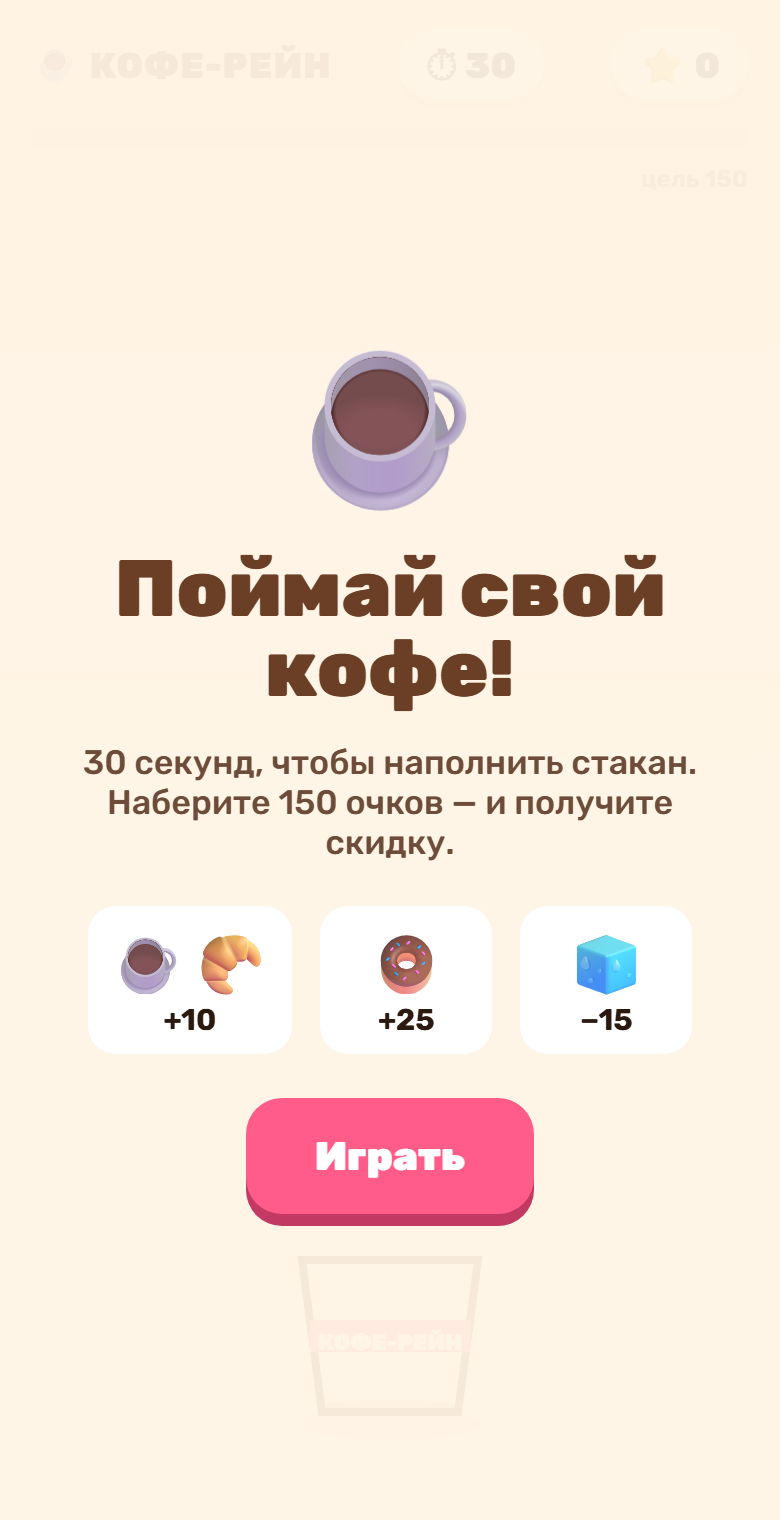
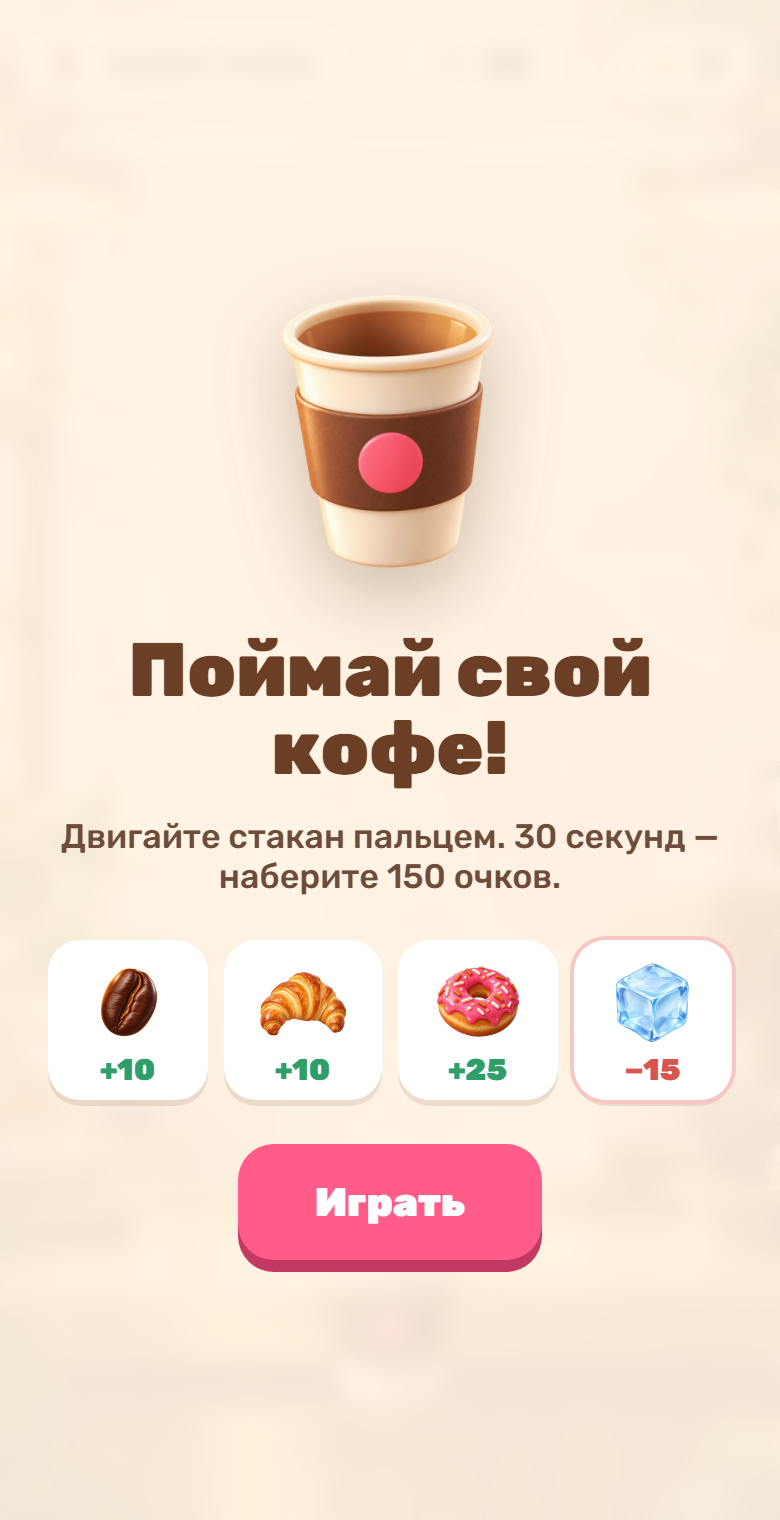
Painted art for the promo game, honest offer screen, catalog pricing

Changed region(s): [[0.0615, 0.1855, 0.9538, 0.8349]]

diff --git a/game.html b/game.html
@@ -4,67 +4,85 @@
 <meta charset="utf-8">
 <meta name="viewport" content="width=device-width,initial-scale=1,maximum-scale=1,user-scalable=no">
 <title>Кофе-рейн — промо-игра для кофейни</title>
-<meta name="description" content="Брендированная мини-игра для промоакции: 30 секунд, промокод, сбор контактов. Работает по ссылке и QR-коду. Демо.">
+<meta name="description" content="Брендированная мини-игра для промоакции: 30 секунд, предложение на экране результата. Демо-концепт.">
 <link rel="preconnect" href="https://fonts.googleapis.com"><link rel="preconnect" href="https://fonts.gstatic.com" crossorigin>
 <link href="https://fonts.googleapis.com/css2?family=Rubik:wght@500;700;900&display=swap" rel="stylesheet">
 <style>
 /* Brand tokens — a client's palette and logo replace these in a real project. */
-:root{--brand:#6b3e26;--brand2:#c8794a;--cream:#fff4e6;--accent:#ff5c8a;--ink:#2b1a10}
+:root{--brand:#6b3e26;--brand2:#c8794a;--cream:#fff4e6;--accent:#ff5c8a;--ink:#2b1a10;--good:#2f9e6b;--bad:#d9534f}
 *{box-sizing:border-box;-webkit-tap-highlight-color:transparent}
 html,body{margin:0;height:100%;background:var(--brand);font-family:Rubik,system-ui,sans-serif;color:var(--ink);overflow:hidden;user-select:none;touch-action:none}
-#wrap{position:relative;max-width:460px;height:100%;margin:0 auto;overflow:hidden;background:linear-gradient(180deg,#ffe2c2,var(--cream) 60%)}
+#wrap{position:relative;max-width:460px;height:100%;margin:0 auto;overflow:hidden;background:#f3dcc0 url(art/bg.jpg) center/cover no-repeat}
+#wrap::before{content:"";position:absolute;inset:0;background:linear-gradient(180deg,rgba(255,244,230,.55),rgba(255,244,230,.15) 40%,rgba(255,244,230,.35));pointer-events:none}
+#wrap.hit-bad{animation:shake .3s}
+@keyframes shake{25%{transform:translateX(-6px)}75%{transform:translateX(6px)}}
 canvas{position:absolute;inset:0;width:100%;height:100%}
-.hud{position:absolute;top:0;left:0;right:0;display:flex;justify-content:space-between;align-items:center;padding:14px 16px;z-index:2;font-weight:900}
-.pill{background:#fff;border-radius:999px;padding:6px 14px;box-shadow:0 4px 0 rgba(107,62,38,.15);font-size:18px}
-.logo{font-weight:900;color:var(--brand);font-size:18px;letter-spacing:.02em}
-.screen{position:absolute;inset:0;z-index:5;display:flex;flex-direction:column;align-items:center;justify-content:center;text-align:center;padding:24px;background:rgba(255,244,230,.94);transition:opacity .35s,transform .35s}
+.flash{position:absolute;inset:0;background:radial-gradient(circle at 50% 85%,rgba(217,83,79,.35),transparent 60%);opacity:0;pointer-events:none;transition:opacity .25s;z-index:1}
+.flash.on{opacity:1;transition:none}
+.hud{position:absolute;top:0;left:0;right:0;display:flex;justify-content:space-between;align-items:center;gap:8px;padding:14px 14px;z-index:2;font-weight:900}
+.pill{display:flex;align-items:center;gap:6px;background:rgba(255,255,255,.92);border-radius:999px;padding:6px 14px;box-shadow:0 4px 0 rgba(107,62,38,.15);font-size:18px}
+.pill svg{width:18px;height:18px}
+.logo{display:flex;align-items:center;gap:6px;font-weight:900;color:var(--brand);font-size:16px;letter-spacing:.02em;background:rgba(255,255,255,.92);border-radius:999px;padding:4px 12px 4px 4px;box-shadow:0 4px 0 rgba(107,62,38,.15)}
+.logo img{width:28px;height:28px;object-fit:contain}
+.screen{position:absolute;inset:0;z-index:5;display:flex;flex-direction:column;align-items:center;justify-content:center;text-align:center;padding:24px;background:rgba(255,244,230,.9);backdrop-filter:blur(6px);-webkit-backdrop-filter:blur(6px);transition:opacity .35s,transform .35s}
 .screen.hide{opacity:0;transform:scale(1.04);pointer-events:none}
-h1{font-size:40px;line-height:1;margin:10px 0;color:var(--brand);font-weight:900}
-p{margin:6px 0 18px;font-size:17px;color:#6d4c3a;font-weight:500}
-.btn{border:0;cursor:pointer;font:900 20px Rubik,sans-serif;color:#fff;background:var(--accent);height:58px;padding:0 34px;border-radius:18px;box-shadow:0 6px 0 #c23a64;transition:transform .1s}
+h1{font-size:38px;line-height:1.02;margin:6px 0 10px;color:var(--brand);font-weight:900}
+p{margin:4px 0 16px;font-size:17px;color:#6d4c3a;font-weight:500}
+.btn{border:0;cursor:pointer;font:900 20px Rubik,sans-serif;color:#fff;background:var(--accent);height:58px;padding:0 38px;border-radius:18px;box-shadow:0 6px 0 #c23a64;transition:transform .1s}
 .btn:active{transform:translateY(4px);box-shadow:0 2px 0 #c23a64}
 .btn.ghost{background:transparent;color:var(--brand);box-shadow:none;font-size:16px;height:44px}
-.cup{font-size:84px;animation:bob 2s ease-in-out infinite}
-@keyframes bob{50%{transform:translateY(-8px) rotate(-4deg)}}
-.rules{display:flex;gap:14px;justify-content:center;margin:4px 0 22px;font-weight:700;font-size:15px}
-.rules div{background:#fff;border-radius:14px;padding:8px 10px;min-width:86px}
-.rules span{display:block;font-size:30px}
-.code{font:900 34px Rubik,monospace;letter-spacing:.12em;background:#fff;border:3px dashed var(--accent);border-radius:16px;padding:10px 18px;margin:8px 0 6px;color:var(--brand)}
-.small{font-size:13px;color:#8a6a58;margin:0 0 14px}
-form{display:flex;flex-direction:column;gap:10px;width:100%;max-width:320px;margin-bottom:12px}
-input{height:50px;border-radius:14px;border:2px solid #f0d6bd;padding:0 14px;font:500 16px Rubik,sans-serif;outline:none;background:#fff}
-input:focus{border-color:var(--brand2)}
-.ok{color:#2f9e6b;font-weight:700;min-height:22px}
-.combo{position:absolute;left:50%;top:30%;transform:translate(-50%,-50%);font-weight:900;font-size:30px;color:var(--accent);z-index:3;pointer-events:none;opacity:0;transition:opacity .2s}
+.hero-cup{width:150px;height:180px;object-fit:contain;filter:drop-shadow(0 14px 18px rgba(107,62,38,.3));animation:bob 2.2s ease-in-out infinite}
+@keyframes bob{50%{transform:translateY(-8px) rotate(-3deg)}}
+.rules{display:grid;grid-template-columns:repeat(4,1fr);gap:8px;margin:6px 0 22px;width:100%;max-width:360px}
+.rules div{background:#fff;border-radius:16px;padding:8px 4px 6px;font-weight:900;font-size:15px;box-shadow:0 3px 0 rgba(107,62,38,.12)}
+.rules img{width:46px;height:46px;object-fit:contain;display:block;margin:0 auto 2px}
+.rules .neg{color:var(--bad);box-shadow:0 0 0 2px #f6c7c5,0 3px 0 rgba(107,62,38,.12)}
+.rules .pos{color:var(--good)}
+.offer{background:#fff;border-radius:20px;padding:16px 20px;box-shadow:0 6px 0 rgba(107,62,38,.12);margin:4px 0 12px;width:100%;max-width:320px}
+.code{font:900 32px Rubik,monospace;letter-spacing:.12em;border:3px dashed var(--accent);border-radius:14px;padding:6px 14px;margin:6px 0;color:var(--brand)}
+.small{font-size:13px;color:#8a6a58;margin:4px 0 0}
+.demo{font-size:12.5px;color:#8a6a58;background:rgba(255,255,255,.7);border-radius:12px;padding:8px 12px;max-width:320px;margin:0 0 12px}
+.stats{display:flex;gap:10px;justify-content:center;margin:0 0 14px}
+.stats span{background:#fff;border-radius:12px;padding:6px 12px;font-weight:700;font-size:14px;color:var(--brand)}
+.combo{position:absolute;left:50%;top:32%;transform:translate(-50%,-50%) scale(.6);font-weight:900;font-size:30px;color:var(--accent);z-index:3;pointer-events:none;opacity:0;transition:opacity .2s,transform .3s cubic-bezier(.2,.9,.25,1.4);text-shadow:0 3px 0 #fff}
+.combo.on{opacity:1;transform:translate(-50%,-50%) scale(1)}
 </style>
 </head>
 <body>
 <div id="wrap">
   <canvas id="c"></canvas>
-  <div class="hud"><span class="logo">☕ КОФЕ-РЕЙН</span><span class="pill">⏱ <b id="time">30</b></span><span class="pill">⭐ <b id="score">0</b></span></div>
+  <div class="flash" id="flash"></div>
+  <div class="hud">
+    <span class="logo"><img src="art/cup.png" alt="">КОФЕ-РЕЙН</span>
+    <span class="pill"><svg viewBox="0 0 24 24" fill="none" stroke="#6b3e26" stroke-width="2.4" stroke-linecap="round"><circle cx="12" cy="13" r="8"/><path d="M12 9v4l3 2M9 2h6"/></svg><b id="time">30</b></span>
+    <span class="pill"><svg viewBox="0 0 24 24"><path d="M12 2l3 6.5 7 .9-5.1 4.8 1.3 7L12 17.8 5.8 21.2l1.3-7L2 9.4l7-.9z" fill="#ffc531" stroke="#c9840f" stroke-width="1.4" stroke-linejoin="round"/></svg><b id="score">0</b></span>
+  </div>
   <div class="combo" id="combo"></div>
 
   <div class="screen" id="start">
-    <div class="cup">☕</div>
+    <img class="hero-cup" src="art/cup.png" alt="Стакан Кофе-рейн">
     <h1>Поймай свой кофе!</h1>
-    <p>30 секунд, чтобы наполнить стакан.<br>Наберите 150 очков — и получите скидку.</p>
-    <div class="rules"><div><span>☕🥐</span>+10</div><div><span>🍩</span>+25</div><div><span>🧊</span>−15</div></div>
+    <p>Двигайте стакан пальцем. 30 секунд — наберите 150 очков.</p>
+    <div class="rules">
+      <div class="pos"><img src="art/item-coffee.png" alt="Кофе">+10</div>
+      <div class="pos"><img src="art/item-croissant.png" alt="Круассан">+10</div>
+      <div class="pos"><img src="art/item-donut.png" alt="Пончик">+25</div>
+      <div class="neg"><img src="art/item-ice.png" alt="Лёд">−15</div>
+    </div>
     <button class="btn" id="play">Играть</button>
   </div>
 
   <div class="screen hide" id="end">
-    <div class="cup" id="endIcon">🎉</div>
+    <img class="hero-cup" id="endCup" src="art/cup.png" alt="" style="width:110px;height:132px">
     <h1 id="endTitle">Скидка ваша!</h1>
-    <p id="endText">Покажите код бариста — и кофе на 20% дешевле.</p>
-    <div class="code" id="code">LATTE20</div>
-    <p class="small">Действует 7 дней · один раз на гостя</p>
-    <form id="lead" autocomplete="on">
-      <input id="lname" placeholder="Имя" autocomplete="given-name">
-      <input id="lphone" placeholder="Телефон для напоминания" inputmode="tel" autocomplete="tel">
-      <button class="btn" type="submit" style="height:50px;font-size:17px">Сохранить скидку</button>
-    </form>
-    <div class="ok" id="leadOk"></div>
-    <button class="btn ghost" id="again">Сыграть ещё раз</button>
+    <div class="stats"><span id="stCaught">Поймано: 0</span><span id="stBest">Рекорд: 0</span></div>
+    <div class="offer">
+      <p id="endText" style="margin:0 0 4px">Покажите код бариста — кофе на 20% дешевле.</p>
+      <div class="code" id="code">LATTE20</div>
+      <p class="small">Действует 7 дней · один раз на гостя</p>
+    </div>
+    <div class="demo">Демо-концепт: код не настоящий. В проекте для кофейни здесь подключается выдача уникальных кодов и, если нужно, форма контакта.</div>
+    <button class="btn" id="again">Сыграть ещё раз</button>
   </div>
 </div>
 <script>
@@ -74,96 +92,105 @@ let W = 0, H = 0, dpr = 1;
 function resize() { const r = wrap.getBoundingClientRect(); dpr = Math.min(devicePixelRatio || 1, 2); W = r.width; H = r.height; cv.width = W * dpr; cv.height = H * dpr; ctx.setTransform(dpr, 0, 0, dpr, 0, 0); }
 addEventListener("resize", resize); resize();
 
-const GOAL = 150, DURATION = 30;
+function img(src) { const i = new Image(); i.src = src; return i; }
+const ART = { cup: img("art/cup.png"), coffee: img("art/item-coffee.png"), croissant: img("art/item-croissant.png"), donut: img("art/item-donut.png"), ice: img("art/item-ice.png") };
+const GOAL = 150, DURATION = 30, ITEM = 58, CUP_W = 112, CUP_H = 134;
 const KINDS = [
-  { e: "☕", pts: 10, w: 40 }, { e: "🥐", pts: 10, w: 30 }, { e: "🍩", pts: 25, w: 12 }, { e: "🧊", pts: -15, w: 18 }
+  { k: "coffee", pts: 10, w: 40 }, { k: "croissant", pts: 10, w: 30 }, { k: "donut", pts: 25, w: 12 }, { k: "ice", pts: -15, w: 18 }
 ];
-let items = [], pops = [], cupX = 0, targetX = 0, score = 0, left = DURATION, playing = false, spawnT = 0, combo = 0, fill = 0, last = 0;
+let items = [], parts = [], pops = [], cupX = 0, targetX = 0, score = 0, left = DURATION, playing = false, spawnT = 0, combo = 0, caught = 0, squash = 0, last = 0;
+let best = 0; try { best = +localStorage.getItem("coffee-best") || 0; } catch (e) {}
 
 function pick() { let r = Math.random() * KINDS.reduce((a, k) => a + k.w, 0); for (const k of KINDS) { if ((r -= k.w) < 0) return k; } return KINDS[0]; }
 function start() {
-  items = []; pops = []; score = 0; left = DURATION; combo = 0; fill = 0; cupX = targetX = W / 2; playing = true;
+  items = []; parts = []; pops = []; score = 0; left = DURATION; combo = 0; caught = 0; cupX = targetX = W / 2; playing = true;
   document.getElementById("start").classList.add("hide"); document.getElementById("end").classList.add("hide");
-  document.getElementById("score").textContent = 0; document.getElementById("leadOk").textContent = "";
+  document.getElementById("score").textContent = 0;
 }
 function end() {
   playing = false; const win = score >= GOAL;
-  document.getElementById("endIcon").textContent = win ? "🎉" : "☕";
+  if (score > best) { best = score; try { localStorage.setItem("coffee-best", best); } catch (e) {} }
   document.getElementById("endTitle").textContent = win ? "Скидка ваша!" : `${score} очков — почти!`;
-  document.getElementById("endText").textContent = win ? "Покажите код бариста — и кофе на 20% дешевле." : "Утешительный приз — 10% на любой напиток. Или попробуйте ещё раз!";
+  document.getElementById("endText").textContent = win ? "Покажите код бариста — кофе на 20% дешевле." : "Утешительный приз — 10% на любой напиток.";
   document.getElementById("code").textContent = win ? "LATTE20" : "LATTE10";
+  document.getElementById("stCaught").textContent = `Поймано: ${caught}`;
+  document.getElementById("stBest").textContent = `Рекорд: ${best}`;
   document.getElementById("end").classList.remove("hide");
+  if (win) burst(W / 2, H * .35, 60, ["#ff5c8a", "#ffc531", "#c8794a", "#2f9e6b"]);
   try { navigator.vibrate && navigator.vibrate(win ? [30, 40, 30] : 60); } catch (e) {}
 }
 document.getElementById("play").onclick = start;
 document.getElementById("again").onclick = start;
-document.getElementById("lead").onsubmit = e => {
-  e.preventDefault();
-  const name = document.getElementById("lname").value.trim(), phone = document.getElementById("lphone").value.replace(/\D/g, "");
-  if (!name || phone.length < 9) { document.getElementById("leadOk").style.color = "#d9534f"; document.getElementById("leadOk").textContent = "Введите имя и телефон"; return; }
-  // In a client project this POSTs to Google Sheets / CRM / Telegram; the demo only keeps it on the device.
-  try { localStorage.setItem("promo-lead", JSON.stringify({ name, phone, code: document.getElementById("code").textContent, t: Date.now() })); } catch (err) {}
-  document.getElementById("leadOk").style.color = "#2f9e6b"; document.getElementById("leadOk").textContent = "✓ Скидка сохранена — напомним за день до окончания";
-};
 
-function pointer(e) { const r = wrap.getBoundingClientRect(); targetX = Math.max(40, Math.min(W - 40, e.clientX - r.left)); }
+function pointer(e) { const r = wrap.getBoundingClientRect(); targetX = Math.max(CUP_W / 2, Math.min(W - CUP_W / 2, e.clientX - r.left)); }
 wrap.addEventListener("pointerdown", pointer); wrap.addEventListener("pointermove", pointer);
 
-function showCombo(t) { const c = document.getElementById("combo"); c.textContent = t; c.style.opacity = 1; clearTimeout(c._h); c._h = setTimeout(() => c.style.opacity = 0, 600); }
+function showCombo(t) { const c = document.getElementById("combo"); c.textContent = t; c.classList.add("on"); clearTimeout(c._h); c._h = setTimeout(() => c.classList.remove("on"), 650); }
+function burst(x, y, n, cols) { for (let i = 0; i < n; i++) { const a = Math.random() * Math.PI * 2, v = 120 + Math.random() * 260; parts.push({ x, y, vx: Math.cos(a) * v, vy: Math.sin(a) * v - 120, t: 0, life: .7 + Math.random() * .4, c: cols[i % cols.length], s: 4 + Math.random() * 4 }); } }
 
 function step(dt) {
   left -= dt; if (left <= 0) { left = 0; end(); }
   document.getElementById("time").textContent = Math.ceil(left);
   spawnT -= dt;
-  const rate = 0.55 - (DURATION - left) * 0.008;            // spawns speed up over the round
-  if (spawnT <= 0) { spawnT = Math.max(.22, rate); const k = pick(); items.push({ ...k, x: 30 + Math.random() * (W - 60), y: -30, vy: 160 + Math.random() * 90 + (DURATION - left) * 5, r: (Math.random() - .5) * 2 }); }
+  const rate = 0.6 - (DURATION - left) * 0.009;            // spawns speed up over the round
+  if (spawnT <= 0) { spawnT = Math.max(.24, rate); const k = pick(); items.push({ ...k, x: 34 + Math.random() * (W - 68), y: -40, vy: 150 + Math.random() * 90 + (DURATION - left) * 5, r: Math.random() * 6, vr: (Math.random() - .5) * 2 }); }
   cupX += (targetX - cupX) * Math.min(1, dt * 14);
-  const cupY = H - 110;
+  squash = Math.max(0, squash - dt * 4);
+  const rimY = H - 40 - CUP_H + 22;                          // open top of the cup sprite
   for (const it of items) {
-    it.y += it.vy * dt; it.r += dt;
-    if (!it.hit && it.y > cupY - 30 && it.y < cupY + 20 && Math.abs(it.x - cupX) < 46) {
+    it.y += it.vy * dt; it.r += it.vr * dt;
+    if (!it.hit && it.y > rimY - 10 && it.y < rimY + 30 && Math.abs(it.x - cupX) < CUP_W * .42) {
       it.hit = true; score = Math.max(0, score + it.pts);
-      combo = it.pts > 0 ? combo + 1 : 0;
-      if (combo && combo % 5 === 0) { score += 20; showCombo(`КОМБО ×${combo}! +20`); }
-      fill = Math.min(1, score / GOAL);
-      pops.push({ x: it.x, y: cupY - 40, t: 0, txt: (it.pts > 0 ? "+" : "") + it.pts, good: it.pts > 0 });
+      if (it.pts > 0) {
+        caught++; combo++; squash = 1;
+        burst(it.x, rimY, 10, ["#ffc531", "#fff", "#c8794a"]);
+        if (combo % 5 === 0) { score += 20; showCombo(`Серия ×${combo}! +20`); }
+        try { navigator.vibrate && navigator.vibrate(8); } catch (e) {}
+      } else {
+        combo = 0; wrap.classList.remove("hit-bad"); void wrap.offsetWidth; wrap.classList.add("hit-bad");
+        const f = document.getElementById("flash"); f.classList.add("on"); setTimeout(() => f.classList.remove("on"), 60);
+        burst(it.x, rimY, 12, ["#bfe6ff", "#ffffff", "#7cc7f2"]);
+        try { navigator.vibrate && navigator.vibrate(40); } catch (e) {}
+      }
+      pops.push({ x: it.x, y: rimY - 30, t: 0, txt: (it.pts > 0 ? "+" : "−") + Math.abs(it.pts), good: it.pts > 0 });
       document.getElementById("score").textContent = score;
-      try { navigator.vibrate && navigator.vibrate(it.pts > 0 ? 8 : 40); } catch (e) {}
     }
   }
-  items = items.filter(it => !it.hit && it.y < H + 40);
+  items = items.filter(it => !it.hit && it.y < H + 60);
+  for (const p of parts) { p.t += dt; p.vy += 600 * dt; p.x += p.vx * dt; p.y += p.vy * dt; }
+  parts = parts.filter(p => p.t < p.life);
   for (const p of pops) p.t += dt;
   pops = pops.filter(p => p.t < .8);
 }
 
-function drawCup(x, y) {
-  ctx.save(); ctx.translate(x, y);
-  ctx.fillStyle = "rgba(107,62,38,.15)"; ctx.beginPath(); ctx.ellipse(0, 62, 46, 8, 0, 0, 7); ctx.fill();
-  // cup body (trapezoid), coffee level grows with progress to the goal
-  ctx.fillStyle = "#fff"; ctx.beginPath(); ctx.moveTo(-44, -20); ctx.lineTo(44, -20); ctx.lineTo(34, 56); ctx.lineTo(-34, 56); ctx.closePath(); ctx.fill();
-  ctx.save(); ctx.clip();
-  const lvl = 56 - fill * 70; ctx.fillStyle = "#8a5232"; ctx.fillRect(-50, lvl, 100, 80);
-  ctx.fillStyle = "#e9c6a0"; ctx.beginPath(); ctx.ellipse(0, lvl, 50, 6, 0, 0, 7); ctx.fill();
-  ctx.restore();
-  ctx.strokeStyle = "#6b3e26"; ctx.lineWidth = 4; ctx.beginPath(); ctx.moveTo(-44, -20); ctx.lineTo(44, -20); ctx.lineTo(34, 56); ctx.lineTo(-34, 56); ctx.closePath(); ctx.stroke();
-  ctx.fillStyle = "#ff5c8a"; ctx.fillRect(-40, 10, 80, 16); ctx.fillStyle = "#fff"; ctx.font = "900 11px Rubik"; ctx.textAlign = "center"; ctx.fillText("КОФЕ-РЕЙН", 0, 22);
-  ctx.restore();
-}
 function draw() {
   ctx.clearRect(0, 0, W, H);
-  // goal bar
-  ctx.fillStyle = "rgba(107,62,38,.12)"; ctx.fillRect(16, 64, W - 32, 10);
-  ctx.fillStyle = score >= GOAL ? "#2f9e6b" : "#c8794a"; ctx.fillRect(16, 64, (W - 32) * Math.min(1, score / GOAL), 10);
-  ctx.font = "700 12px Rubik"; ctx.fillStyle = "#8a6a58"; ctx.textAlign = "right"; ctx.fillText(`цель ${GOAL}`, W - 16, 90);
-  ctx.textAlign = "center"; ctx.textBaseline = "middle";
-  for (const it of items) { ctx.save(); ctx.translate(it.x, it.y); ctx.rotate(Math.sin(it.r) * .3); ctx.font = "40px serif"; ctx.fillText(it.e, 0, 0); ctx.restore(); }
-  drawCup(cupX, H - 110);
-  for (const p of pops) { ctx.globalAlpha = 1 - p.t / .8; ctx.font = "900 22px Rubik"; ctx.fillStyle = p.good ? "#2f9e6b" : "#d9534f"; ctx.fillText(p.txt, p.x, p.y - p.t * 60); }
+  // goal bar under the HUD
+  const bx = 16, by = 66, bw = W - 32, k = Math.min(1, score / GOAL);
+  ctx.fillStyle = "rgba(255,255,255,.75)"; ctx.beginPath(); ctx.roundRect(bx, by, bw, 12, 6); ctx.fill();
+  ctx.fillStyle = score >= GOAL ? "#2f9e6b" : "#ff5c8a"; ctx.beginPath(); ctx.roundRect(bx, by, Math.max(12, bw * k), 12, 6); ctx.fill();
+  ctx.font = "700 12px Rubik"; ctx.fillStyle = "#6b3e26"; ctx.textAlign = "right"; ctx.textBaseline = "top"; ctx.fillText(`цель ${GOAL}`, W - 16, by + 18);
+  // falling items; ice gets a red warning ring so it reads as an obstacle
+  for (const it of items) {
+    ctx.save(); ctx.translate(it.x, it.y); ctx.rotate(Math.sin(it.r) * .35);
+    if (it.k === "ice") { ctx.strokeStyle = "rgba(217,83,79,.65)"; ctx.lineWidth = 3; ctx.setLineDash([5, 5]); ctx.beginPath(); ctx.arc(0, 0, ITEM * .58, 0, 7); ctx.stroke(); ctx.setLineDash([]); }
+    const im = ART[it.k]; if (im.complete) ctx.drawImage(im, -ITEM / 2, -ITEM / 2, ITEM, ITEM);
+    ctx.restore();
+  }
+  // cup with a squash-and-stretch on every catch
+  const sx = 1 + squash * .12, sy = 1 - squash * .1, cy = H - 40;
+  ctx.fillStyle = "rgba(107,62,38,.22)"; ctx.beginPath(); ctx.ellipse(cupX, cy + 4, CUP_W * .42, 9, 0, 0, 7); ctx.fill();
+  ctx.save(); ctx.translate(cupX, cy); ctx.scale(sx, sy);
+  if (ART.cup.complete) ctx.drawImage(ART.cup, -CUP_W / 2, -CUP_H, CUP_W, CUP_H);
+  ctx.restore();
+  for (const p of parts) { ctx.globalAlpha = 1 - p.t / p.life; ctx.fillStyle = p.c; ctx.fillRect(p.x - p.s / 2, p.y - p.s / 2, p.s, p.s); }
+  ctx.globalAlpha = 1; ctx.textAlign = "center"; ctx.textBaseline = "middle";
+  for (const p of pops) { ctx.globalAlpha = 1 - p.t / .8; ctx.font = "900 24px Rubik"; ctx.lineWidth = 5; ctx.strokeStyle = "#fff"; ctx.strokeText(p.txt, p.x, p.y - p.t * 60); ctx.fillStyle = p.good ? "#2f9e6b" : "#d9534f"; ctx.fillText(p.txt, p.x, p.y - p.t * 60); }
   ctx.globalAlpha = 1;
 }
 function loop(now) {
   const dt = Math.min(.033, (now - last) / 1000 || .016); last = now;
-  if (playing) step(dt); else { cupX += (W / 2 - cupX) * .05; }
+  if (playing) step(dt); else { cupX += (W / 2 - cupX) * .05; for (const p of parts) { p.t += dt; p.vy += 600 * dt; p.x += p.vx * dt; p.y += p.vy * dt; } parts = parts.filter(p => p.t < p.life); }
   draw(); requestAnimationFrame(loop);
 }
 cupX = targetX = W / 2; requestAnimationFrame(loop);

diff --git a/index.html b/index.html
@@ -4,7 +4,8 @@
 <meta charset="utf-8">
 <meta name="viewport" content="width=device-width,initial-scale=1">
 <title>Промо-игра для кофейни — кейс</title>
-<meta name="description" content="Брендированная мини-игра для промоакции: 30 секунд, промокод и сбор контактов. Работает по ссылке и QR. Демо-кейс.">
+<meta name="description" content="Брендированная мини-игра для промоакции: 30 секунд, предложение на экране результата. Работает по ссылке и QR. AI concept.">
+<meta property="og:image" content="https://condrusarsen.github.io/promo-game-case/cover.png">
 <link rel="preconnect" href="https://fonts.googleapis.com"><link rel="preconnect" href="https://fonts.gstatic.com" crossorigin>
 <link href="https://fonts.googleapis.com/css2?family=Rubik:wght@400;500;700;900&display=swap" rel="stylesheet">
 <style>
@@ -44,7 +45,7 @@ footer{padding:48px 0;color:var(--mute);font-size:14px}
     <div>
       <span class="tag">AI concept · промо-игра · маркетинг</span>
       <h1>Игра, которая приводит гостей обратно</h1>
-      <p class="lead">Мини-игра в стиле бренда для кофейни: 30 секунд ловишь кофе и выпечку, уворачиваешься ото льда и получаешь промокод. Взамен гость оставляет имя и телефон. Запуск по ссылке или QR на стойке — без установки приложения.</p>
+      <p class="lead">Мини-игра в стиле бренда для кофейни: 30 секунд ловишь кофе и выпечку, уворачиваешься ото льда и видишь предложение кофейни на экране результата. Запуск по ссылке или QR на стойке — без установки приложения.</p>
       <div class="btns"><a class="btn" href="game.html" target="_blank" rel="noopener">▶ Играть на весь экран</a><a class="btn alt" href="https://t.me/arseni_games_bot">Заказать такую игру</a></div>
     </div>
     <div class="phone"><iframe src="game.html" title="Промо-игра"></iframe></div>
@@ -53,7 +54,7 @@ footer{padding:48px 0;color:var(--mute);font-size:14px}
   <h2>Зачем бизнесу</h2>
   <div class="grid">
     <div class="card"><b>Возвращает гостей</b><p>Промокод с ограниченным сроком — повод прийти ещё раз. В конце игры гость получает скидку, а не просто очки.</p></div>
-    <div class="card"><b>Собирает контакты</b><p>Имя и телефон для напоминания о скидке. В реальном проекте уходят в Google Таблицу, CRM или Telegram администратору.</p></div>
+    <div class="card"><b>Можно подключить сбор контактов</b><p>Отдельной интеграцией: уникальные коды, форма контакта, Google Таблица или CRM. В демо ничего не отправляется.</p></div>
     <div class="card"><b>Работает в соцсетях</b><p>30 секунд, понятная цель, комбо — люди хотят переиграть и делятся ссылкой в сторис.</p></div>
     <div class="card"><b>Без приложения</b><p>Открывается в браузере телефона по ссылке или QR-коду на стойке, на чеке или стакане.</p></div>
   </div>
@@ -62,15 +63,15 @@ footer{padding:48px 0;color:var(--mute);font-size:14px}
   <div class="steps">
     <div><b>Старт</b><br>Правила на одном экране: что ловить, что нет, какая цель.</div>
     <div><b>30 секунд игры</b><br>Падающие предметы ускоряются, стакан наполняется вместе с прогрессом, за серию — бонус.</div>
-    <div><b>Приз</b><br>Цель достигнута — скидка 20%; нет — утешительные 10%, чтобы никто не ушёл ни с чем.</div>
-    <div><b>Контакт</b><br>Форма сохранения скидки с проверкой телефона, кнопка «Сыграть ещё раз».</div>
+    <div><b>Предложение</b><br>Цель достигнута — 20%; нет — утешительные 10%, чтобы никто не ушёл ни с чем. Код в демо не настоящий.</div>
+    <div><b>Повтор</b><br>Статистика раунда и рекорд, кнопка «Сыграть ещё раз» — желание переиграть и показать друзьям.</div>
   </div>
 
   <h2>Стоимость для заказчика</h2>
   <div class="price">
-    <div><b>от 3 000 ₽</b><p>Такая игра в цветах и с товарами вашего бренда, промокод, 2–3 дня.</p></div>
-    <div><b>от 8 000 ₽</b><p>Плюс сбор заявок в Google Таблицу или Telegram, несколько уровней, таблица рекордов.</p></div>
-    <div><b>от 15 000 ₽</b><p>Оригинальная механика под акцию, рисованная графика, аналитика переходов.</p></div>
+    <div><b>от 15 000 ₽</b><p>5–7 рабочих дней. Одна браузерная механика, стартовый экран, игровой раунд и экран результата с вашим предложением.</p></div>
+    <div><b>Входит</b><p>Адаптация цвета и оформления под бренд · Мышь и сенсорное управление · Один язык · Размещение демо и передача HTML/исходников</p></div>
+    <div><b>Не входит</b><p>Реальные промокоды, сбор контактов на сервере, CRM, платежи и аналитика — отдельные интеграции. Демонстрационный код скидки сам по себе не даёт скидку.</p></div>
   </div>
 
   <h2>Как сделано</h2>
